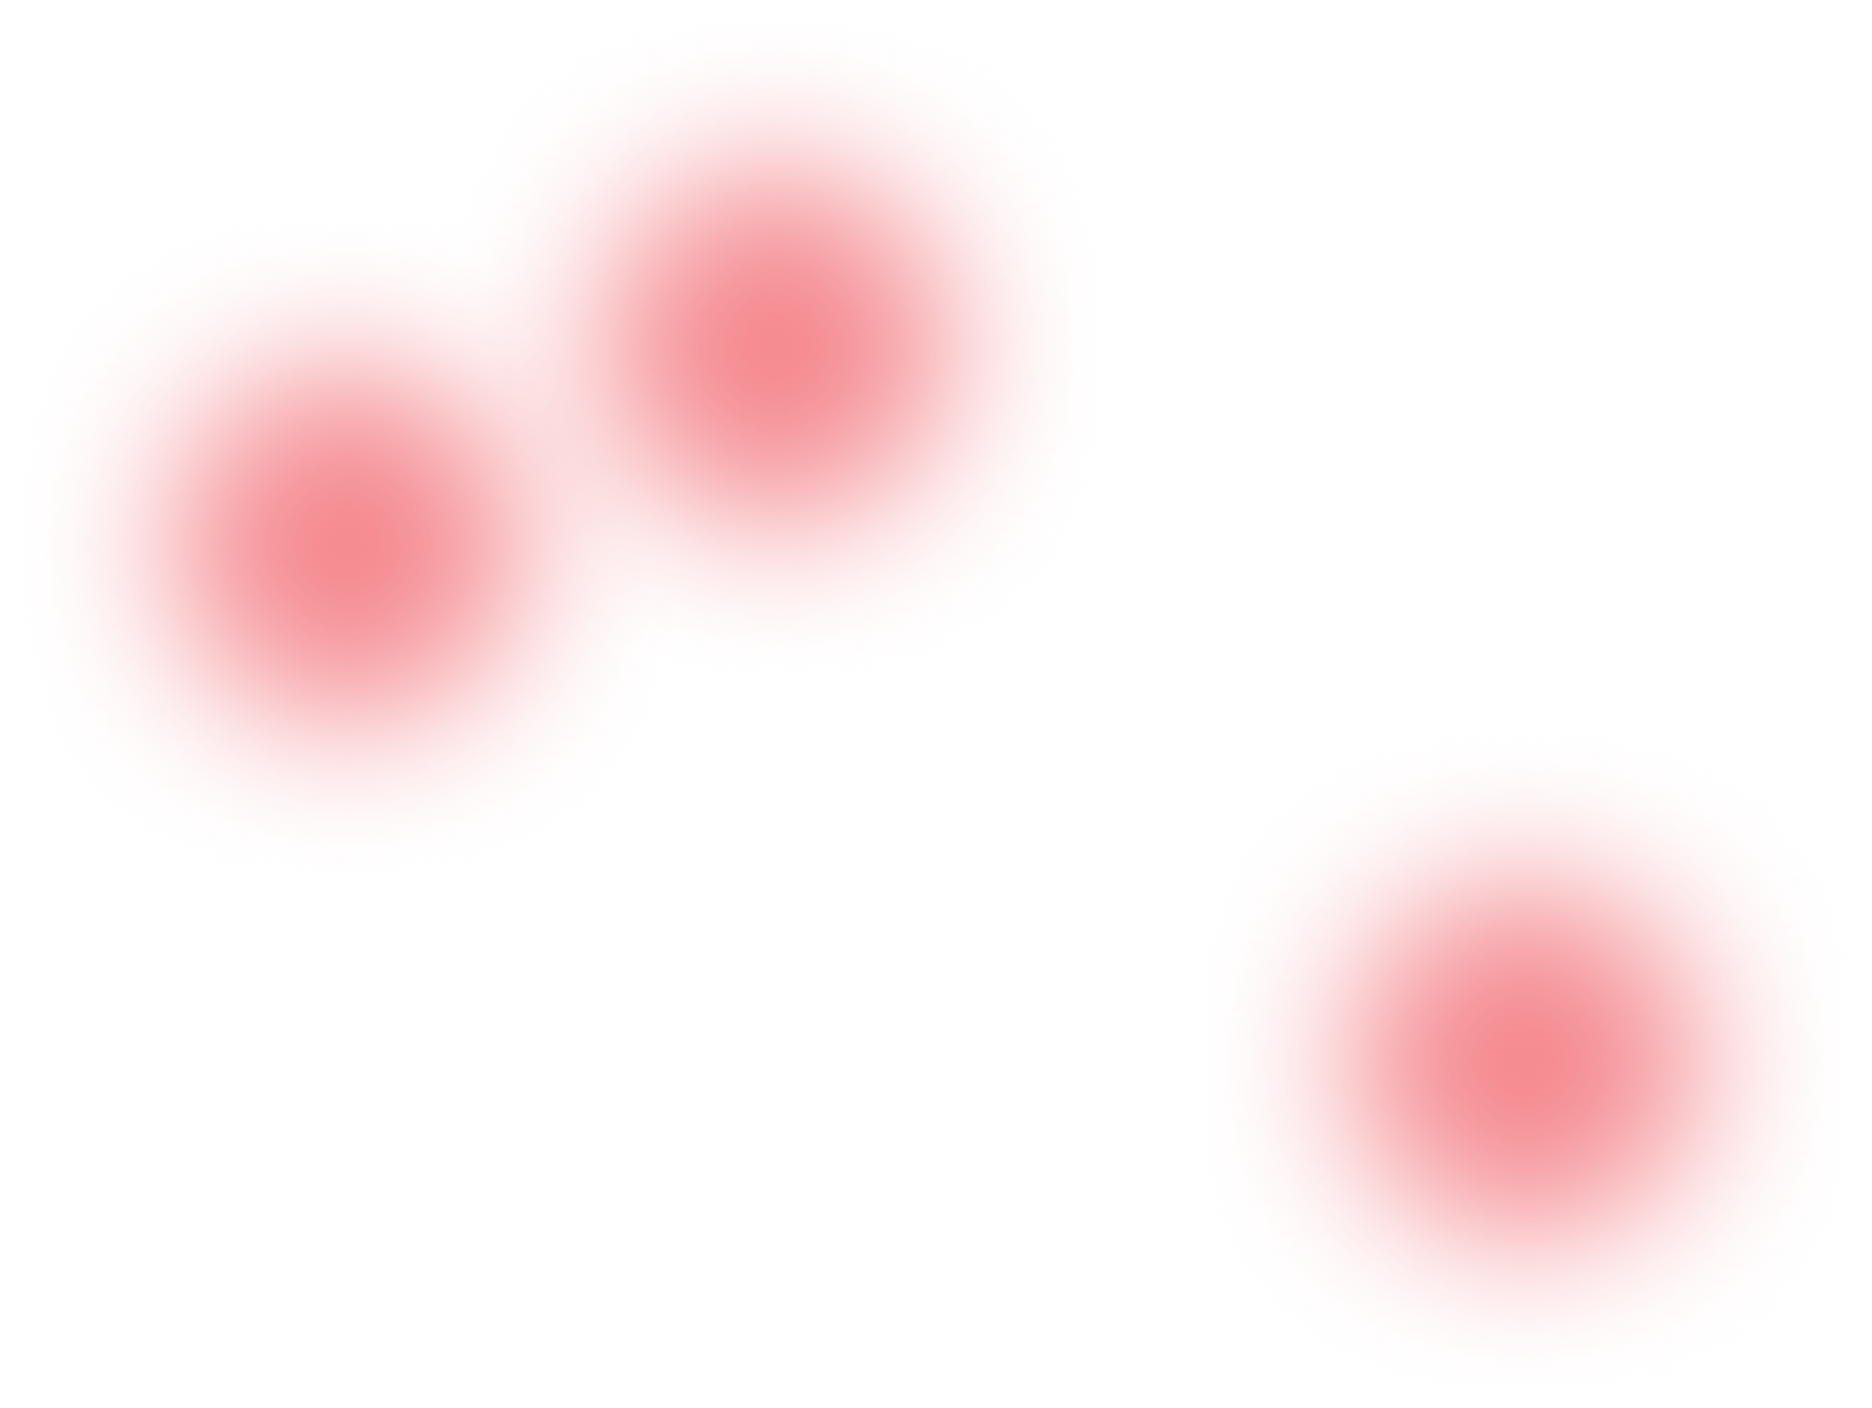
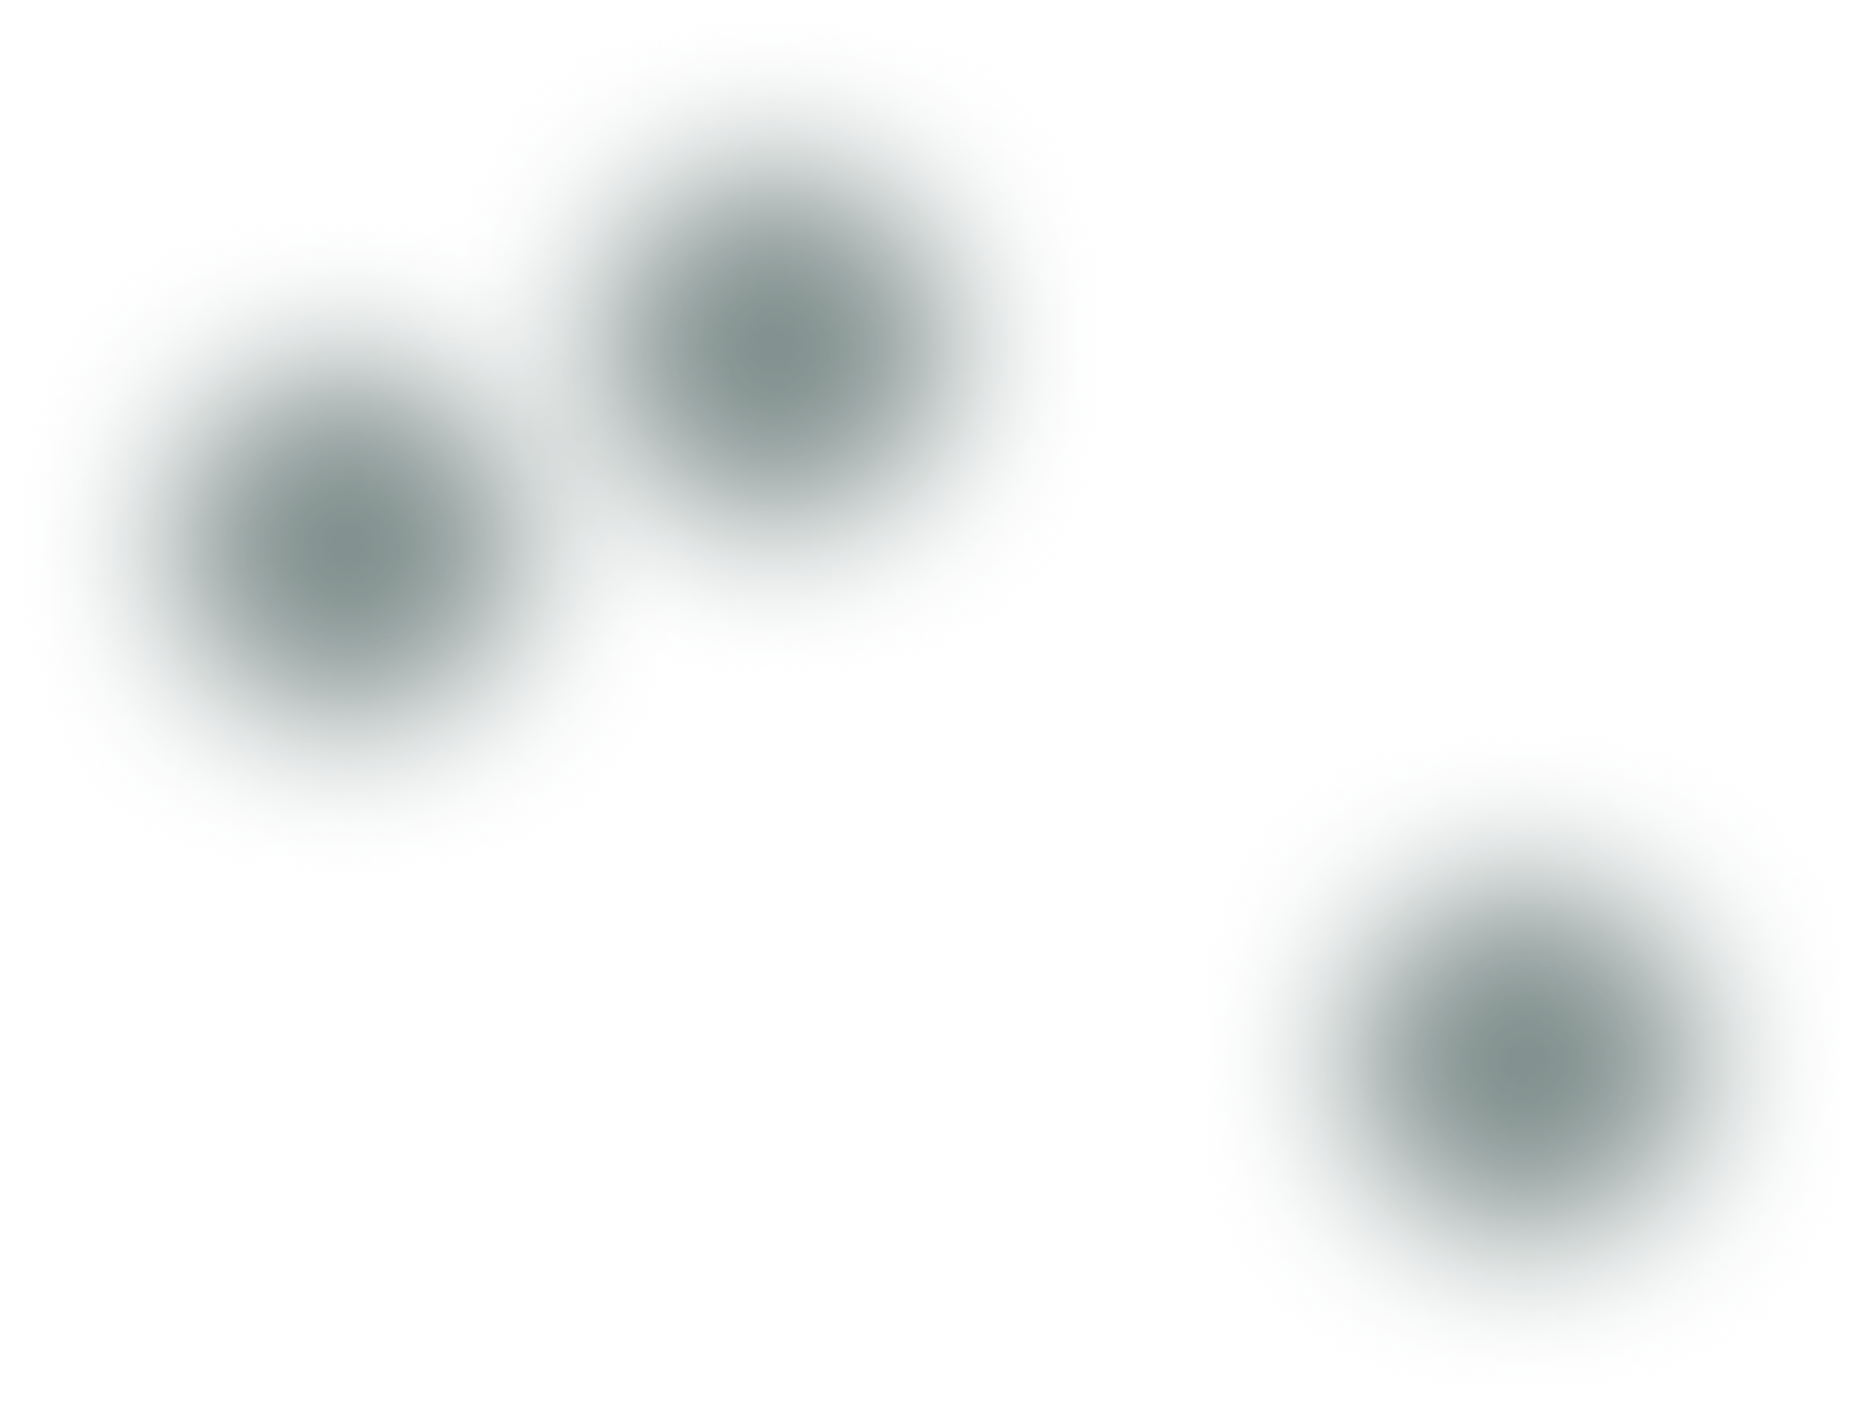
Covers_backgr_update + Reviews_Section

Changed region(s): [[0.062, 0.0625, 0.5577, 0.5625], [0.6816, 0.5938, 0.9295, 0.9375]]

diff --git a/src/js/reviews.js b/src/js/reviews.js
@@ -1,0 +1,83 @@
+import iziToast from 'izitoast';
+import 'izitoast/dist/css/iziToast.min.css';
+import axios from 'axios';
+import { swiper } from './reviews-swiper';
+
+axios.defaults.baseURL = 'https://portfolio-js.b.goit.study';
+
+const reviewsList = document.querySelector('.reviews-list');
+
+if (!reviewsList) {
+  console.error('❌ Element .reviews-list not found!');
+}
+
+const getReviews = async () => {
+  try {
+    const response = await axios.get('/api/reviews');
+    return response.data;
+  } catch (error) {
+    console.error('⚠ Houston, we have a problem! 🚀 Reviews failed to load:', error);
+    return null; // Повертаємо null у разі помилки
+  }
+};
+
+const createCardTemplate = ({ avatar_url, author, review }) => `
+  <li class="reviews-list-item swiper-slide">
+    <img
+      src="${avatar_url}"
+      alt="user-photo"
+      onerror="this.src='/img/reviews/profile-photo.png'"
+      class="reviews-list-item-icon"
+      width="48"
+      height="48"
+    />
+    <h3 class="reviews-list-item-title">${author}</h3>
+    <p class="reviews-list-item-text">${review}</p>
+  </li>
+`;
+
+const getCardInfo = async () => {
+  try {
+    const cardsData = await getReviews();
+
+    if (cardsData === null) {
+      iziToast.show({
+        message: `🚨 Error 404: Reviews not found. But we’re looking! 👀`,
+        color: 'red',
+        position: 'topRight',
+      });
+
+      reviewsList.innerHTML = `<li class="error-case">Unfortunately, we can't find any reviews. Try again later.</li>`;
+      return;
+    }
+
+    if (!cardsData.length) {
+
+      iziToast.show({
+        message: `❌ Reviews are currently lost in cyberspace. 🚀`,
+        color: 'yellow',
+        position: 'topRight',
+      });
+
+      reviewsList.innerHTML = `<li class="error-case">There are no reviews yet. Be the first one! 🚀</li>`;
+      return;
+    }
+
+    const cardsTemplate = cardsData.map(createCardTemplate).join('');
+    reviewsList.innerHTML = cardsTemplate;
+  } catch (err) {
+    console.error('⚠ Houston, we have a problem! 🚀 Reviews failed to load:', err);
+
+    if (swiper?.disable) swiper.disable();
+
+    iziToast.show({
+      message: `🚨 Error 404: Reviews not found. But we’re looking! 👀`,
+      color: 'red',
+      position: 'topRight',
+    });
+
+    reviewsList.innerHTML = `<li class="error-case">Unfortunately, we can't find any reviews. Try again later.</li>`;
+  }
+};
+
+getCardInfo();

diff --git a/src/css/reviews.css b/src/css/reviews.css
@@ -1,0 +1,136 @@
+.reviews-title {
+  font-family: 'Inter Tight', sans-serif;
+  font-weight: 600;
+  font-size: 16px;
+  line-height: 1.5;
+  letter-spacing: -0.02em;
+  color: rgba(250, 250, 250, 0.4);
+  margin-bottom: 32px;
+}
+
+.reviews-list {
+  margin-bottom: 32px;
+  min-width: 0;
+}
+
+.reviews-section {
+  padding-bottom: 64px;
+  padding-top: 64px;
+}
+
+.reviews-list-item {
+  box-sizing: border-box;
+  border: 1px solid rgba(250, 250, 250, 0.2);
+  border-radius: 20px;
+  padding: 32px 24px;
+}
+
+.reviews-list-item-icon {
+  margin-bottom: 32px;
+  border-radius: 10px;
+}
+
+.reviews-list-item-title {
+  margin-bottom: 8px;
+}
+
+.reviews-btn {
+  border: 1px solid rgba(250, 250, 250, 0.5);
+  border-radius: 60px;
+  padding: 14px;
+  width: 52px;
+  height: 52px;
+  justify-content: center;
+  background-color: inherit;
+}
+
+.btn-container {
+  display: flex;
+  gap: 20px;
+  justify-content: center;
+  align-items: center;
+}
+
+.reviews-list-item-text {
+  font-family: 'Inter Tight', sans-serif;
+  font-weight: 500;
+  font-size: 16px;
+  line-height: 1.5;
+  letter-spacing: -0.02em;
+  color: rgba(250, 250, 250, 0.6);
+}
+
+.reviews-list-item {
+  min-height: 345px;
+}
+.swiper-container {
+  width: 100%;
+  overflow: hidden;
+}
+
+.review-icon {
+  width: 24px;
+  height: 24px;
+}
+
+.error-case {
+  margin-left: auto;
+  margin-right: auto;
+  margin-bottom: 100px;
+  margin-top: 100px;
+  font-family: 'Inter Tight', sans-serif;
+  font-weight: 500;
+  font-size: 16px;
+  line-height: 1.5;
+  letter-spacing: -0.02em;
+  color: rgba(250, 250, 250, 0.6);
+  text-align: center;
+}
+
+.prev-icon,
+.next-icon {
+  stroke-width: 2px;
+  stroke: #fafafa;
+  fill: transparent;
+}
+
+.next-icon {
+  rotate: 180deg;
+}
+.swiper-button-disabled {
+  border: 1px solid rgba(250, 250, 250, 0.2);
+}
+
+.swiper-button-disabled .next-icon {
+  stroke: #3b3b3b;
+  fill: transparent;
+}
+
+.swiper-button-disabled .prev-icon {
+  stroke: #3b3b3b;
+  fill: transparent;
+}
+
+@media screen and (min-width: 768px) {
+  .reviews-section {
+    padding-bottom: 96px;
+    padding-top: 96px;
+  }
+
+  .reviews-btn {
+    padding: 18px;
+    width: 68px;
+    height: 68px;
+  }
+  .review-icon {
+    width: 32px;
+    height: 32px;
+  }
+}
+
+@media screen and (min-width: 1440px) {
+  .reviews-section {
+    padding-bottom: 164px;
+    padding-top: 164px;
+  }
+}

diff --git a/src/js/reviews-swiper.js b/src/js/reviews-swiper.js
@@ -1,0 +1,33 @@
+import SwiperCore, { Swiper } from 'swiper';
+import 'swiper/css';
+import 'swiper/css/pagination';
+import { Navigation, Keyboard, Mousewheel, Pagination } from 'swiper/modules';
+
+export let swiper = new Swiper('.swiper-container', {
+    modules: [Navigation, Keyboard, Mousewheel, Pagination],
+    speed: 1000,
+    navigation: {
+        nextEl: '.review-swiper-button-next',
+        prevEl: '.review-swiper-button-prev',
+    },
+    keyboard: {
+        enabled: true,
+        onlyInViewport: true,
+    },
+    mousewheel: {
+        enabled: true,
+        eventsTarget: '.swiper-container',
+    },
+    breakpoints: {
+        1440: {
+            spaceBetween: 16,
+            slidesPerView: 4,
+        },
+        768: {
+            slidesPerView: 2,
+        },
+        320: {
+            slidesPerView: 1,
+        },
+    },
+});

diff --git a/src/partials/reviews.html b/src/partials/reviews.html
@@ -1,0 +1,20 @@
+<section id="reviews" class="section reviews-section">
+    <div class="container slider-container">
+        <h2 class="reviews-title">REVIEWS</h2>
+        <div class="swiper-container">
+            <ul class="reviews-list swiper-wrapper"></ul>
+        </div>
+        <div class="btn-container">
+    <button type="button" class="reviews-btn review-swiper-button-prev" aria-label="scroll prev review">
+    <svg class="review-icon prev-icon">
+        <use href="/img/sprite.svg#arrow-black"></use>
+    </svg>
+    </button>
+    <button type="button" class="reviews-btn review-swiper-button-next" aria-label="scroll next review">
+    <svg class="review-icon next-icon">
+        <use href="/img/sprite.svg#arrow-black"></use>
+    </svg>
+    </button>
+        </div>
+    </div>
+</section>

diff --git a/src/main.js b/src/main.js
@@ -1,5 +1,6 @@
 import './js/covers.js';
 import './js/reviews.js';
+import './js/reviews-swiper.js';
 import './js/benefits.js'
 import './js/faq.js'
 import './js/header.js'
